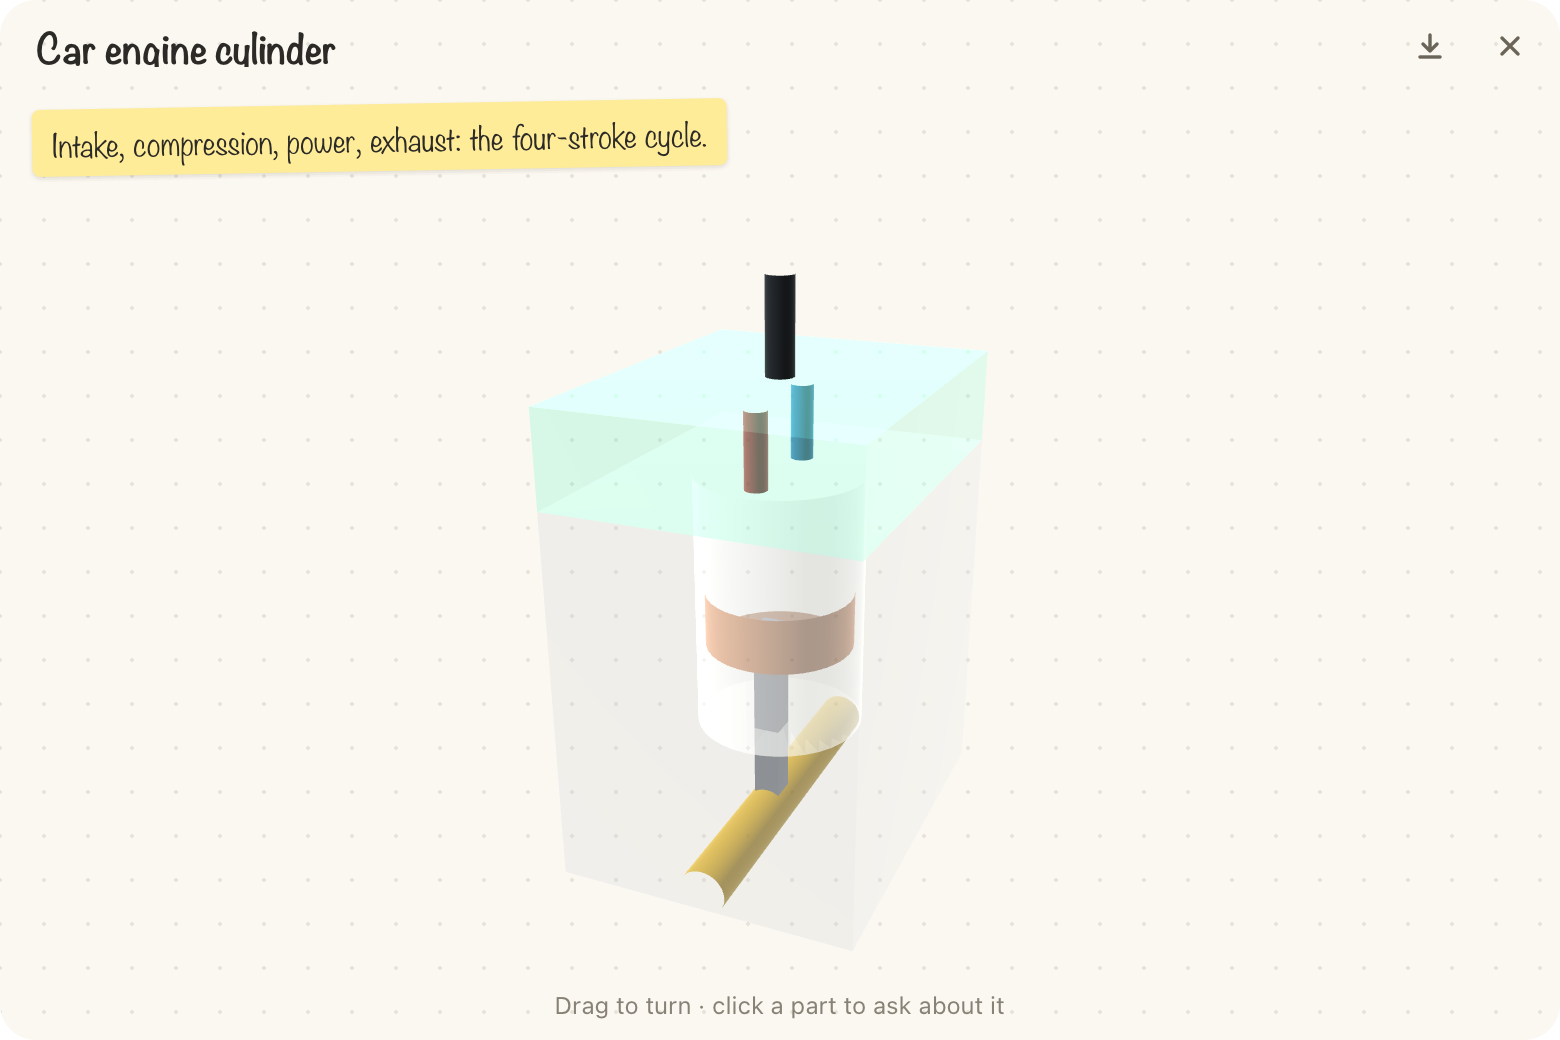
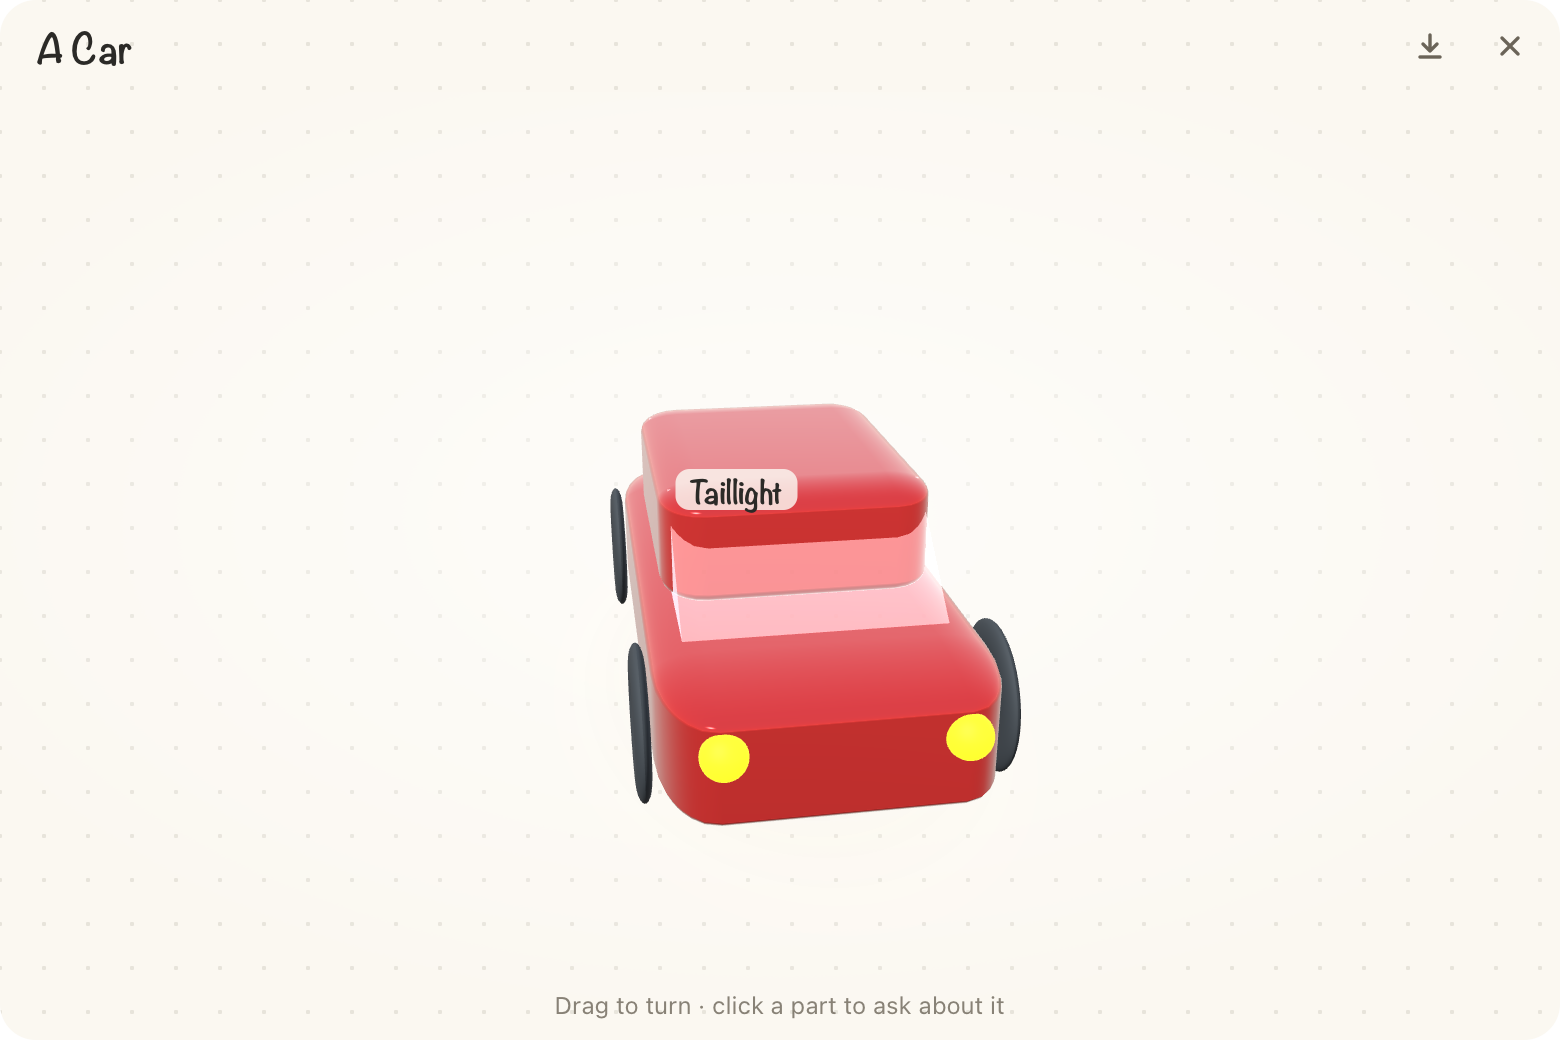
3D: wheels stand up, rings are never see-through, the model's own slips are read
A torus faces its thinnest side, so a wheel sized 1,1,0.15 stands; the prompt says to size rings that way. A ring's hole is not
a casing, and a part given a material is never made see-through, so tyres stay rubber. An empty slot ("| |") and a material in
the color slot ("| glass") no longer drop the part: an engine had lost 8 of its 11. Normals come from the model's own matrix,
matte edges no longer glare white, and the camera stands a little further back. New README picture.

Changed region(s): [[0.3385, 0.2462, 0.6769, 0.8615], [0.0, 0.0923, 0.4923, 0.1846], [0.0, 0.0308, 0.2154, 0.0615]]

diff --git a/ui/board.html b/ui/board.html
@@ -457,8 +457,8 @@ function makeThree(canvas) {
       vec3 diff=base*(1.-metal*.85)*(vec3(1.,.95,.88)*dk*1.15+vec3(.55,.65,.82)*df*.4+amb);
       float sh=exp2(gloss*10.+1.);
       vec3 F0=mix(vec3(.04),base,metal),Fr=F0+(1.-F0)*fres;
-      vec3 spec=Fr*pow(max(dot(N,normalize(K+E)),0.),sh)*(sh+8.)/24.*dk;
-      vec3 env=sky(reflect(-E,N))*Fr*(.2+gloss*.8)*(metal>.5?1.2:.35);
+      vec3 spec=Fr*pow(max(dot(N,normalize(K+E)),0.),sh)*(sh+8.)/24.*dk*(.25+.75*gloss);
+      vec3 env=sky(reflect(-E,N))*Fr*gloss*(metal>.5?1.3:.45);   // a matte or rubber edge stays dark, not white
       vec3 col=diff+spec+env+base*emit*1.6+vec3(.2,.15,.03)*hot;
       col=col/(col+vec3(.85))*1.85;
       gl_FragColor=vec4(pow(col,vec3(1./2.2)),alpha<1.?min(1.,alpha+fres*.55):1.);
@@ -580,12 +580,18 @@ function makeThree(canvas) {
     dirty = true; wake()
   }
   function model(p) {
-    const e = p.m.ev, k = p.scale, s = e.size, r = e.rot.map(a => a * Math.PI / 180)
-    return mul(T(...e.at), mul(RY(r[1]), mul(RX(r[0]), mul(RZ(r[2]), Sc(s[0] * k, s[1] * k, s[2] * k)))))
+    const e = p.m.ev, k = Math.max(p.scale, 1e-3), s = e.size
+    let shape = Sc(s[0] * k, s[1] * k, s[2] * k), r = e.rot.map(a => a * Math.PI / 180)
+    if (e.shape === 'torus') {   // a ring or tyre faces its thinnest side: "1,1,.12" is a wheel standing up, not a flat squashed ring
+      const axis = s.indexOf(Math.min(...s))   // sized as it stands, so a tilt the model added for a flat ring would lay it down again: only its turn stays
+      if (axis === 2) { shape = mul(RX(Math.PI / 2), Sc(s[0] * k, s[2] * k, s[1] * k)); r = [0, r[1], 0] }
+      if (axis === 0) { shape = mul(RZ(Math.PI / 2), Sc(s[1] * k, s[0] * k, s[2] * k)); r = [0, r[1], 0] }
+    }
+    return mul(T(...e.at), mul(RY(r[1]), mul(RX(r[0]), mul(RZ(r[2]), shape))))
   }
-  function normals(p) {   // turned like the part, scaled by its inverse: normals stay square to a squashed surface
-    const e = p.m.ev, r = e.rot.map(a => a * Math.PI / 180), R = mul(RY(r[1]), mul(RX(r[0]), RZ(r[2]))), s = e.size.map(x => 1 / Math.max(x * p.scale, 1e-4))
-    return [0, 1, 2].flatMap(j => [R[j * 4] * s[j], R[j * 4 + 1] * s[j], R[j * 4 + 2] * s[j]])
+  function normals(M) {   // the inverse transpose of the model's 3×3: normals stay square to a squashed or turned surface
+    const [a, b, c, d, e, f, g, h, i] = [M[0], M[1], M[2], M[4], M[5], M[6], M[8], M[9], M[10]]   // columns
+    return [e * i - f * h, f * g - d * i, d * h - e * g, c * h - b * i, a * i - c * g, b * g - a * h, b * f - c * e, c * d - a * f, a * e - b * d]   // cofactors, up to scale
   }
   function box(p) {   // the part's world box, turned as it is
     const M = model({m: p.m, scale: 1}), lo = [Infinity, Infinity, Infinity], hi = [-Infinity, -Infinity, -Infinity]
@@ -621,7 +627,7 @@ function makeThree(canvas) {
       blend(clear(p)); gl.uniform1f(U.alpha, clear(p) ? p.mat.alpha || .4 : 1)
       gl.uniform1f(U.metal, p.mat.metal); gl.uniform1f(U.gloss, p.mat.gloss); gl.uniform1f(U.emit, p.mat.emit || 0)
       gl.uniform3fv(U.c, picking ? [(i + 1) / 255, 0, 0] : p.color); gl.uniform1f(U.hot, !picking && i === hot ? 1 : 0)
-      draw(meshes[p.m.ev.shape] || meshes.box, model(p), normals(p))
+      const M = model(p); draw(meshes[p.m.ev.shape] || meshes.box, M, normals(M))
     })
     blend(false)
     gl.bindFramebuffer(gl.FRAMEBUFFER, null)
@@ -656,9 +662,9 @@ function makeThree(canvas) {
     shown.forEach(p => { p.box = box(p); for (let k = 0; k < 3; k++) { lo[k] = Math.min(lo[k], p.box[0][k]); hi[k] = Math.max(hi[k], p.box[1][k]) } })
     p_target = lo.map((l, k) => (l + hi[k]) / 2)
     floor = {x: p_target[0], y: lo[1] - .01, z: p_target[2], w: (hi[0] - lo[0]) * 1.7 + .4, d: (hi[2] - lo[2]) * 1.7 + .4}
-    fitDist = Math.max(2.5, Math.hypot(hi[0] - lo[0], hi[1] - lo[1], hi[2] - lo[2]) * 1.35)   // the whole model in view at any turn (its bounding sphere fits the view's height)
+    fitDist = Math.max(2.5, Math.hypot(hi[0] - lo[0], hi[1] - lo[1], hi[2] - lo[2]) * 1.5)   // the whole model in view at any turn (its bounding sphere fits the view's height)
     // a shell: a part with another, clearly thinner one inside it (an engine block around its piston, not a crankshaft and its pin)
-    const inside = (a, b) => b !== a && a.box && a.target > 0 && b.target > 0 && Math.min(...a.m.ev.size) > 1.6 * Math.min(...b.m.ev.size) && [0, 1, 2].every(k => a.box[0][k] < b.m.ev.at[k] && b.m.ev.at[k] < a.box[1][k])
+    const inside = (a, b) => b !== a && a.box && a.target > 0 && b.target > 0 && !['torus', 'pipe'].includes(a.m.ev.shape) && !a.m.ev.material &&   // a ring's hole holds nothing; a part given a material looks as it was told Math.min(...a.m.ev.size) > 1.6 * Math.min(...b.m.ev.size) && [0, 1, 2].every(k => a.box[0][k] < b.m.ev.at[k] && b.m.ev.at[k] < a.box[1][k])
     parts.forEach(a => { a.shell = parts.some(b => inside(a, b)) })
   }
   let p_target = [0, 0, 0], last = performance.now()

diff --git a/brain/board.py b/brain/board.py
@@ -13,6 +13,7 @@ __all__ = ['BOARD_LAYOUTS', 'BOARD_SHAPES', 'BOARD_COLORS', 'BOARD_MATERIALS', '
 BOARD_LAYOUTS = ('flow', 'cycle', 'mind', 'compare', 'timeline', 'chart', '3d')
 BOARD_SHAPES = ('box', 'roundbox', 'sphere', 'dome', 'capsule', 'cylinder', 'pipe', 'cone', 'torus', 'wedge')
 BOARD_MATERIALS = ('plastic', 'matte', 'rubber', 'metal', 'glass', 'glow')
+MATERIAL_COLOR = {'glass': '#dcebf2', 'metal': 'silver', 'rubber': 'black', 'glow': 'yellow', 'matte': 'gray', 'plastic': 'gray'}
 BOARD_COLORS = ('red', 'orange', 'yellow', 'green', 'teal', 'blue', 'purple', 'pink', 'brown', 'gray', 'black', 'white', 'silver', 'gold',
                 'steel', 'copper', 'chrome', 'navy', 'cream', 'wood', 'skin')
 OPEN = re.compile(r'\[board(\+)?(?:\s+([a-z0-9]+))?\s*:?\s*([^\]\n]*)\]\s*', re.I)
@@ -61,12 +62,15 @@ def board_line(line):
     if word == 'part':
         bits = [b.strip() for b in rest.split('|')]
         if not 5 <= len(bits) <= 7: return None
-        name, shape, at, size, color = _text(bits[0], 40), bits[1].lower(), _numbers(bits[2], 3, -50, 50), _numbers(bits[3], 3, .005, 50), _color(bits[4])
-        rot, material = [0, 0, 0], None
-        for extra in bits[5:]:   # a turn and a material, either or both, in either order
+        name, shape, at, size = _text(bits[0], 40), bits[1].lower(), _numbers(bits[2], 3, -50, 50), _numbers(bits[3], 3, .005, 50)
+        color, rot, material = None, [0, 0, 0], None
+        for extra in bits[4:]:   # a color, a material and a turn, in any order; an empty slot ("| |") is skipped
+            if not extra: continue
             if extra.lower() in BOARD_MATERIALS and not material: material = extra.lower()
+            elif _color(extra) and not color: color = _color(extra)
             elif _numbers(extra, 3, -360, 360) is not None: rot = _numbers(extra, 3, -360, 360)
             else: return None
+        color = color or MATERIAL_COLOR.get(material)   # "| glass" alone: a material standing in for its color
         if not name or shape not in BOARD_SHAPES or not at or not size or not color: return None
         return {'op': 'part', 'text': name, 'shape': shape, 'at': at, 'size': size, 'color': color, 'rot': rot, **({'material': material} if material else {})}
     return None

diff --git a/tests/test_board.py b/tests/test_board.py
@@ -53,6 +53,10 @@ class BoardLineTests(unittest.TestCase):
                          'size': [2, .6, 2], 'color': 'black', 'rot': [90, 0, 0], 'material': 'rubber'})
         self.assertEqual(line('part Lens | dome | 0,1,0 | .5,.3,.5 | chrome | glass')['material'], 'glass')   # a material without a turn
         for shape in ('roundbox', 'dome', 'capsule', 'pipe', 'wedge'): self.assertEqual(line(f'part X | {shape} | 0,0,0 | 1,1,1 | steel')['shape'], shape)
+        # as the model writes them: an empty turn slot, and a material where the color goes (it gets the material's color)
+        self.assertEqual(line('part Piston | cylinder | 0,-0.3,0 | 1.4,0.5,1.4 | silver | | metal')['material'], 'metal')
+        self.assertEqual({k: v for k, v in line('part Block | cylinder | 0,0,0 | 1.6,2.4,1.6 | glass').items() if k in ('color', 'material')}, {'color': '#dcebf2', 'material': 'glass'})
+        self.assertEqual(line('part Ring | torus | 0,0,0 | 1,1,.1 | black | metal | 90,0,0')['rot'], [90, 0, 0])
         for kind in ('note', 'check', 'formula', 'column', 'title'):
             self.assertEqual(line(f'{kind} Some words')['op'], kind)
 
@@ -60,7 +64,7 @@ class BoardLineTests(unittest.TestCase):
         for bad in ('', 'say', 'draw a cat', 'rm -rf ~', '<script>alert(1)</script>', 'circle 0', 'circle 99', 'circle two',
                     'bar Q1 = lots', 'part X | hexagon | 0,0,0 | 1,1,1 | red', 'part X | box | 0,0 | 1,1,1 | red',
                     'part X | box | 0,0,999 | 1,1,1 | red', 'part X | box | 0,0,0 | 0,1,1 | red', 'part X | box | 0,0,0 | 1,1,1 | chartreuse',
-                    'part X | box | 0,0,0 | 1,1,1 | red | 0,0,720', 'part X | box | 0,0,0 | 1,1,1 | red | wood', 'part X | box | 0,0,0 | 1,1,1 | red | metal | glass | 0,0,0'):
+                    'part X | box | 0,0,0 | 1,1,1 | red | 0,0,720', 'part X | box | 0,0,0 | 1,1,1 | red | cloud', 'part X | box | 0,0,0 | 1,1,1', 'part X | box | 0,0,0 | 1,1,1 | red | metal | glass | 0,0,0'):
             self.assertIsNone(brain.board.board_line(bad), bad)
         self.assertEqual(len(brain.board.board_line('say ' + 'w' * 900)['text']), 400)
         self.assertEqual(len(brain.board.board_line('item ' + 'w' * 300)['text']), 80)

diff --git a/brain/prompts.py b/brain/prompts.py
@@ -232,9 +232,9 @@ Layouts: flow (ordered steps), cycle (a loop), mind (one idea, branches), compar
 Marks: item <title, ≤6 words> | <few words of detail>   (a step, branch, event or point; numbered in flow)
   column <name> (compare: the items after it go in that column)   bar <label> = <number><unit> (chart)
   note <short aside>   check <short line with a tick>   formula <math or one key line>   circle <item number> (emphasis)
-  part <name> | <shape> | x,y,z | width,height,depth | <color> [| rx,ry,rz degrees] [| <material>]
+  part <name> | <shape> | x,y,z | width,height,depth | <color> [| <material>] [| rx,ry,rz degrees]
     (3d: y is up; centre the object near 0,0,0; sizes about 0.05-4. Shapes: box, roundbox, sphere, dome, capsule, cylinder, pipe (hollow),
-    cone, torus, wedge; cylinder, cone, pipe, dome and capsule stand on y. Colors: red, orange, yellow, green, teal, blue, navy, purple, pink,
+    cone, torus, wedge; cylinder, cone, pipe, dome and capsule stand on y; size a torus as it stands, no turn: a wheel 1,1,0.15, a flat ring 1,0.15,1. Colors: red, orange, yellow, green, teal, blue, navy, purple, pink,
     brown, wood, cream, skin, gray, black, white, silver, steel, chrome, copper, gold or #rrggbb. Materials: metal, glass, rubber, matte, glow
     (plastic if none). Make it look real: 8-14 parts in true proportions, with the details that make it recognisable (tyres, windows,
     a lens), real colors and materials; a casing around inner parts is glass.)

diff --git a/README.md b/README.md
@@ -19,7 +19,7 @@
 </tr>
 <tr>
 <td><img src="docs/screens/board.png" alt="The live board: a hand-drawn marketing plan in six numbered steps"><br><b>Ask for a plan</b>, and it is drawn step by step while Rabik talks you through it.</td>
-<td><img src="docs/screens/board-3d.png" alt="A 3D model of an engine cylinder with its piston, rod and crankshaft"><br><b>Ask how something works</b>, and a 3D model builds part by part; click a part to ask about it.</td>
+<td><img src="docs/screens/board-3d.png" alt="A 3D model of a red car with a glass cabin, rubber tyres and glowing headlights"><br><b>Ask how something works</b>, and a 3D model builds part by part; click a part to ask about it.</td>
 </tr>
 </table>
 
